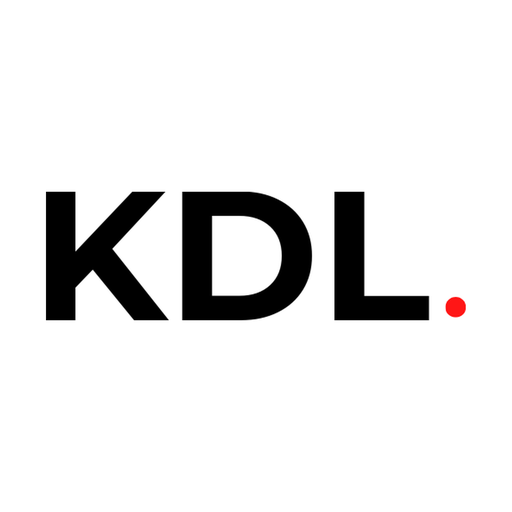
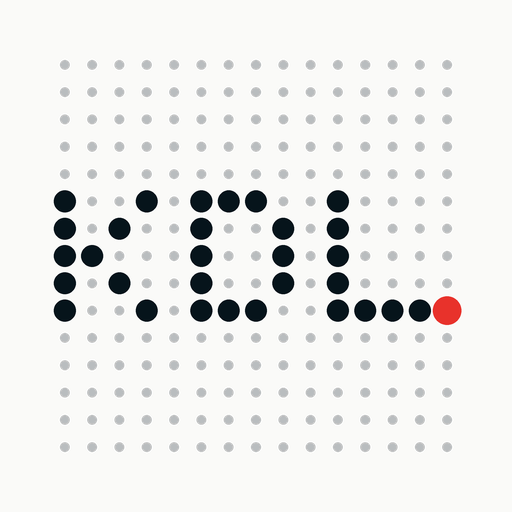
KDL dotted mark, header reorder, two-step language curtain
- Noisy dotted KDL. replaces the K in the loader and as the favicon (svg + png set)
- Header: menu button centred, language toggle last; K symbol removed
- Language switch: dark curtain rises, sand panel sweeps in from the right, then exits left
- Intro animations play only on first load, not after a language switch
- Pointer cursor on all clickable elements

diff --git a/src/i18n/index.jsx b/src/i18n/index.jsx
@@ -28,9 +28,13 @@ function initialLang() {
 export function LangProvider({ children }) {
   const [lang, setLangState] = useState(initialLang)
   const [content, setContent] = useState(() => (initialLang() === 'en' ? en : null))
-  const curtain = useRef(null)
+  // two-step switch: a dark curtain rises from the bottom, then a sand panel sweeps in from the right
+  const curtainV = useRef(null)
+  const curtainH = useRef(null)
   const label = useRef(null)
   const reveal = useRef(false)
+  const HIDDEN_V = 'inset(100% 0% 0% 0%)'
+  const HIDDEN_H = 'inset(0% 0% 0% 100%)'
 
   useEffect(() => {
     let alive = true
@@ -50,19 +54,19 @@ export function LangProvider({ children }) {
     }
   }, [lang])
 
-  // once the new language has rendered, lift the curtain
+  // once the new language has rendered: the sand panel leaves to the left, then the dark curtain lifts off the top
   useEffect(() => {
     if (!reveal.current || content?.lang !== lang) return
     reveal.current = false
     requestAnimationFrame(() =>
       requestAnimationFrame(() =>
-        gsap.to(curtain.current, {
-          clipPath: 'inset(0% 0% 100% 0%)',
-          duration: 0.7,
-          ease: 'expo.inOut',
-          delay: 0.1,
-          onComplete: () => gsap.set(curtain.current, { clipPath: 'inset(100% 0% 0% 0%)', visibility: 'hidden' }),
-        }),
+        gsap
+          .timeline({
+            delay: 0.1,
+            onComplete: () => gsap.set([curtainV.current, curtainH.current], { visibility: 'hidden', clipPath: (i) => (i ? HIDDEN_H : HIDDEN_V) }),
+          })
+          .to(curtainH.current, { clipPath: 'inset(0% 100% 0% 0%)', duration: 0.6, ease: 'expo.inOut' })
+          .to(curtainV.current, { clipPath: 'inset(0% 0% 100% 0%)', duration: 0.65, ease: 'expo.inOut' }, '-=0.3'),
       ),
     )
   }, [content, lang])
@@ -71,19 +75,20 @@ export function LangProvider({ children }) {
     (next) => {
       next = next === 'de' ? 'de' : 'en'
       if (next === lang) return
-      if (prefersReducedMotion() || !curtain.current) return setLangState(next)
+      if (prefersReducedMotion() || !curtainV.current) return setLangState(next)
       label.current.textContent = NAMES[next]
-      gsap.set(curtain.current, { visibility: 'visible', clipPath: 'inset(100% 0% 0% 0%)' })
-      gsap.fromTo(label.current, { yPercent: 60, opacity: 0 }, { yPercent: 0, opacity: 1, duration: 0.6, ease: 'expo.out', delay: 0.2 })
-      gsap.to(curtain.current, {
-        clipPath: 'inset(0% 0% 0% 0%)',
-        duration: 0.55,
-        ease: 'expo.inOut',
-        onComplete: () => {
-          reveal.current = true
-          setLangState(next)
-        },
-      })
+      gsap.set(curtainV.current, { visibility: 'visible', clipPath: HIDDEN_V })
+      gsap.set(curtainH.current, { visibility: 'visible', clipPath: HIDDEN_H })
+      gsap
+        .timeline({
+          onComplete: () => {
+            reveal.current = true
+            setLangState(next)
+          },
+        })
+        .to(curtainV.current, { clipPath: 'inset(0% 0% 0% 0%)', duration: 0.5, ease: 'expo.inOut' })
+        .to(curtainH.current, { clipPath: 'inset(0% 0% 0% 0%)', duration: 0.6, ease: 'expo.inOut' }, '+=0.05')
+        .fromTo(label.current, { xPercent: 30, opacity: 0 }, { xPercent: 0, opacity: 1, duration: 0.6, ease: 'expo.out' }, '-=0.3')
     },
     [lang],
   )
@@ -91,13 +96,14 @@ export function LangProvider({ children }) {
   return (
     <>
       {content && <LangContext.Provider value={{ lang: content.lang, t: content, setLang }}>{children}</LangContext.Provider>}
+      <div ref={curtainV} aria-hidden="true" className="pointer-events-none fixed inset-0 z-[500] bg-ink" style={{ clipPath: HIDDEN_V, visibility: 'hidden' }} />
       <div
-        ref={curtain}
+        ref={curtainH}
         aria-hidden="true"
-        className="pointer-events-none fixed inset-0 z-[500] flex items-center justify-center bg-ink"
-        style={{ clipPath: 'inset(100% 0% 0% 0%)', visibility: 'hidden' }}
+        className="pointer-events-none fixed inset-0 z-[501] flex items-center justify-center bg-sand"
+        style={{ clipPath: HIDDEN_H, visibility: 'hidden' }}
       >
-        <span className="flex items-baseline overflow-hidden font-serif text-[clamp(3rem,8vw,7rem)] leading-none text-paper">
+        <span className="flex items-baseline overflow-hidden font-serif text-[clamp(3rem,8vw,7rem)] leading-none text-ink">
           <span ref={label} className="inline-block" />
           <span className="ml-1 inline-block h-[0.14em] w-[0.14em] rounded-full bg-klar" />
         </span>

diff --git a/src/components/Header.jsx b/src/components/Header.jsx
@@ -1,11 +1,11 @@
 import { useEffect, useLayoutEffect, useRef, useState } from 'react'
 import { LangToggle, useLang } from '../i18n'
 import { links } from '../i18n/links'
-import { gsap, INTRO_DELAY, lockScroll } from '../lib/motion'
+import { gsap, lockScroll } from '../lib/motion'
 import { followLink, localHref, pathFor } from '../lib/router'
 import { prefersReducedMotion } from '../lib/useCanvas'
 import { FlipText } from './fx'
-import { KlarMark, Wordmark } from './Logo'
+import { Wordmark } from './Logo'
 import { Button } from './ui'
 
 function MenuDots({ open }) {
@@ -80,22 +80,19 @@ export default function Header() {
           <a href={`${pathFor('home', lang)}#top`} aria-label={t.ui.home} onClick={() => setOpen(false)}>
             <Wordmark />
           </a>
-          {/* the noisy dotted K — its dots scatter and snap back on hover */}
-          <a href={`${pathFor('home', lang)}#top`} aria-hidden="true" tabIndex={-1} className="absolute left-1/2 top-1/2 hidden -translate-x-1/2 -translate-y-1/2 text-ink sm:block">
-            <KlarMark className="h-10 w-10" intro delay={INTRO_DELAY - 0.2} />
-          </a>
-          <div className="flex items-center gap-5">
-            <LangToggle />
+          {/* menu button in the centre (beside the toggle on phones); language toggle last */}
+          <div className="flex items-center gap-3">
             <button
               type="button"
               onClick={() => setOpen((v) => !v)}
               aria-expanded={open}
               aria-controls="site-menu"
               aria-label={open ? t.ui.menuClose : t.ui.menuOpen}
-              className="group -mr-2 flex h-11 w-11 items-center justify-center"
+              className="group flex h-11 w-11 items-center justify-center sm:absolute sm:left-1/2 sm:top-1/2 sm:-translate-x-1/2 sm:-translate-y-1/2"
             >
               <MenuDots open={open} />
             </button>
+            <LangToggle />
           </div>
         </div>
       </header>

diff --git a/src/components/visuals/HeroLogo3D.jsx b/src/components/visuals/HeroLogo3D.jsx
@@ -1,6 +1,6 @@
 import { useEffect, useRef } from 'react'
 import * as THREE from 'three'
-import { gsap, INTRO_DELAY, ScrollTrigger } from '../../lib/motion'
+import { gsap, introDelay, isIntroDone, ScrollTrigger } from '../../lib/motion'
 import { prefersReducedMotion } from '../../lib/useCanvas'
 
 /*
@@ -95,7 +95,9 @@ export default function HeroLogo3D({ scrollEnd = '+=90%' }) {
 
     const still = prefersReducedMotion()
     // from/to: shape indices; t: progress of the current change; burst: opening scatter; scroll: pinned break-apart
-    const state = { from: 0, to: 0, t: 1, burst: still ? 0 : 1, scroll: 0 }
+    // first visit: the mark bursts in from across the screen; later remounts (language switch) start assembled
+    const replay = isIntroDone()
+    const state = { from: 0, to: 0, t: 1, burst: still || replay ? 0 : 1, scroll: 0 }
     const pointer = { x: 9, y: 9, inside: false }
     const drag = { on: false, lastX: 0, vel: 0, moved: 0, downAt: 0 }
     const place = { x: 0, y: 0, scale: 1, visW: 10, visH: 6 } // where the mark sits on screen
@@ -175,14 +177,15 @@ export default function HeroLogo3D({ scrollEnd = '+=90%' }) {
         layout()
         dots.forEach((d, i) => {
           mesh.setColorAt(i, d.kind === 'red' ? RED : INK)
-          d.pos.copy(d.scatter) // start spread over the whole screen
+          if (replay) d.pos.set(place.x, place.y, 0)
+          else d.pos.copy(d.scatter) // start spread over the whole screen
         })
         mesh.instanceColor.needsUpdate = true
         scene.add(mesh)
 
         if (still) return render(0)
-        gsap.to(state, { burst: 0, duration: 2.6, ease: 'expo.out', delay: Math.max(0, INTRO_DELAY - 0.3) })
-        scheduleCycle((INTRO_DELAY + 5) * 1000)
+        gsap.to(state, { burst: 0, duration: 2.6, ease: 'expo.out', delay: Math.max(0, introDelay() - 0.3) })
+        scheduleCycle((introDelay() + 5) * 1000)
       })
       .catch(() => {})
     layout()

diff --git a/src/components/Sections.jsx b/src/components/Sections.jsx
@@ -1,6 +1,6 @@
 import { useLayoutEffect, useRef, useState } from 'react'
 import { useLang } from '../i18n'
-import { gsap, INTRO_DELAY } from '../lib/motion'
+import { gsap, introDelay } from '../lib/motion'
 import { pathFor } from '../lib/router'
 import { prefersReducedMotion } from '../lib/useCanvas'
 import { FlipChars, FlipText, Reveal, RevealTitle, Scramble, ScrubWords, TypedWord } from './fx'
@@ -44,7 +44,7 @@ export function Hero() {
   useLayoutEffect(() => {
     if (prefersReducedMotion()) return
     const ctx = gsap.context(() => {
-      gsap.from('[data-hero-in]', { y: 28, opacity: 0, duration: 1.2, ease: 'expo.out', stagger: 0.1, delay: INTRO_DELAY + 0.55 })
+      gsap.from('[data-hero-in]', { y: 28, opacity: 0, duration: 1.2, ease: 'expo.out', stagger: 0.1, delay: introDelay() + 0.55 })
       // hold the hero full screen while the logo breaks apart; the copy drifts up and fades with it
       gsap
         .timeline({ scrollTrigger: { trigger: root.current, start: 'top top', end: HERO_PIN, pin: true, scrub: true, anticipatePin: 1 } })
@@ -65,8 +65,8 @@ export function Hero() {
             <Scramble text={t.hero.eyebrow} />
           </p>
           <h1 aria-label={t.hero.title} className="pointer-events-auto font-serif text-[clamp(2.5rem,5.2vw,5rem)] leading-[1.02] tracking-[-0.015em]">
-            <FlipChars as="span" text={t.hero.lead} delay={INTRO_DELAY + 0.15} className="block" />
-            <TypedWord words={t.hero.words} delay={INTRO_DELAY + 1.1} className="block whitespace-nowrap text-taupe" />
+            <FlipChars as="span" text={t.hero.lead} delay={introDelay() + 0.15} className="block" />
+            <TypedWord words={t.hero.words} delay={introDelay() + 1.1} className="block whitespace-nowrap text-taupe" />
           </h1>
           <p data-hero-in className="mt-8 max-w-md text-[17px] leading-relaxed text-ink/75 lg:text-lg">
             {t.hero.body}

diff --git a/src/components/Logo.jsx b/src/components/Logo.jsx
@@ -1,5 +1,5 @@
 import { useEffect, useRef } from 'react'
-import { gsap, INTRO_DELAY, ScrollTrigger } from '../lib/motion'
+import { gsap, introDelay, ScrollTrigger } from '../lib/motion'
 import { prefersReducedMotion } from '../lib/useCanvas'
 
 /*
@@ -106,31 +106,9 @@ export function DotWord({ text = 'KLARDATALABS', muteFrom = 4, tone = 'dark', no
   )
 }
 
-/** The symbol: a dotted "K" inside a 5×5 field of faint noise dots, with the red full stop in the corner. */
-const K_CELLS = new Set(['0,0', '0,1', '0,2', '0,3', '0,4', '1,2', '2,1', '3,0', '2,3', '3,4'])
-const MARK_CELLS = []
-for (let y = 0; y < 5; y++) for (let x = 0; x < 5; x++) if (!(x === 4 && y === 4)) MARK_CELLS.push({ x, y, k: K_CELLS.has(`${x},${y}`) })
-
-export function KlarMark({ className = 'h-10 w-10', interactive = true, intro = false, delay = 0 }) {
-  const ref = useRef(null)
-  useDotMotion(ref, { intro, interactive, delay })
-  return (
-    <svg ref={ref} viewBox="0 0 40 40" aria-hidden="true" className={`overflow-visible ${className}`}>
-      {MARK_CELLS.map(({ x, y, k }) =>
-        k ? (
-          <circle key={`${x}${y}`} data-lit cx={4 + x * STEP} cy={4 + y * STEP} r={R_LIT} fill="currentColor" />
-        ) : (
-          <circle key={`${x}${y}`} data-noise cx={4 + x * STEP} cy={4 + y * STEP} r={R_NOISE} fill="currentColor" opacity="0.22" />
-        ),
-      )}
-      <circle data-stop className="text-klar" cx={36.5} cy={36.5} r={R_LIT + 0.8} fill="currentColor" />
-    </svg>
-  )
-}
-
 /** Header wordmark. */
 export function Wordmark({ tone = 'dark', className = '' }) {
-  return <DotWord tone={tone} intro delay={INTRO_DELAY - 0.2} className={`h-[18px] lg:h-5 ${className}`} />
+  return <DotWord tone={tone} intro delay={Math.max(0, introDelay() - 0.2)} className={`h-[18px] lg:h-5 ${className}`} />
 }
 
 /**

diff --git a/src/components/Loader.jsx b/src/components/Loader.jsx
@@ -1,9 +1,9 @@
 import { useLayoutEffect, useRef, useState } from 'react'
-import { gsap, INTRO_DELAY, lockScroll } from '../lib/motion'
+import { gsap, INTRO_DELAY, lockScroll, markIntroDone } from '../lib/motion'
 import { prefersReducedMotion } from '../lib/useCanvas'
-import { DotWord, KlarMark } from './Logo'
+import { DotWord } from './Logo'
 
-/** Intro: the dotted K assembles, then the wordmark, while a counter runs; then the curtain lifts. */
+/** Intro: the noisy dotted KDL. assembles, then the wordmark, while a counter runs; then the curtain lifts. */
 export default function Loader() {
   const root = useRef(null)
   const count = useRef(null)
@@ -17,6 +17,7 @@ export default function Loader() {
       gsap
         .timeline({
           onComplete: () => {
+            markIntroDone()
             lockScroll(false)
             setDone(true)
           },
@@ -39,7 +40,7 @@ export default function Loader() {
   return (
     <div ref={root} className="fixed inset-0 z-[300] flex items-center justify-center bg-paper [clip-path:inset(0_0_0%_0)]" aria-hidden="true">
       <div data-loader-inner className="flex flex-col items-center gap-6 text-ink">
-        <KlarMark className="h-20 w-20" intro interactive={false} />
+        <DotWord text="KDL" muteFrom={99} className="h-14 sm:h-16" intro interactive={false} />
         <DotWord className="h-4" intro interactive={false} />
         <span className="caption tabular-nums text-taupe">
           <span ref={count}>000</span>

diff --git a/src/lib/motion.js b/src/lib/motion.js
@@ -25,6 +25,14 @@ export const getLenis = () => lenis
 /** Seconds the intro loader covers the page; hero animations start after it. */
 export const INTRO_DELAY = prefersReducedMotion() ? 0 : 1.6
 
+// after the first visit's intro, remounts (e.g. a language switch) animate in right away
+let introDone = prefersReducedMotion()
+export const markIntroDone = () => {
+  introDone = true
+}
+export const introDelay = () => (introDone ? 0.1 : INTRO_DELAY)
+export const isIntroDone = () => introDone
+
 export function lockScroll(locked) {
   if (lenis) locked ? lenis.stop() : lenis.start()
   document.documentElement.style.overflow = locked ? 'hidden' : ''

diff --git a/src/index.css b/src/index.css
@@ -47,6 +47,22 @@
     @apply bg-paper font-sans text-[17px] text-ink antialiased;
     overflow-x: clip;
   }
+  /* pointing hand on everything clickable (Tailwind v4 resets buttons to the default arrow) */
+  a[href],
+  button:not(:disabled),
+  [role='button'],
+  [role='radio'],
+  [role='tab'],
+  label[for],
+  select,
+  summary,
+  input[type='checkbox'],
+  input[type='radio'] {
+    cursor: pointer;
+  }
+  button:disabled {
+    cursor: not-allowed;
+  }
   ::selection {
     background: var(--color-ink);
     color: var(--color-paper);

diff --git a/index.html b/index.html
@@ -3,6 +3,7 @@
   <head>
     <meta charset="UTF-8" />
     <meta name="viewport" content="width=device-width, initial-scale=1.0" />
+    <link rel="icon" type="image/svg+xml" href="/brand/favicon.svg" />
     <link rel="icon" type="image/png" sizes="64x64" href="/brand/favicon.png" />
     <link rel="apple-touch-icon" href="/brand/apple-touch-icon.png" />
     <title>KlarDataLabs — SAP, ServiceNow & AI-Driven Automation</title>
